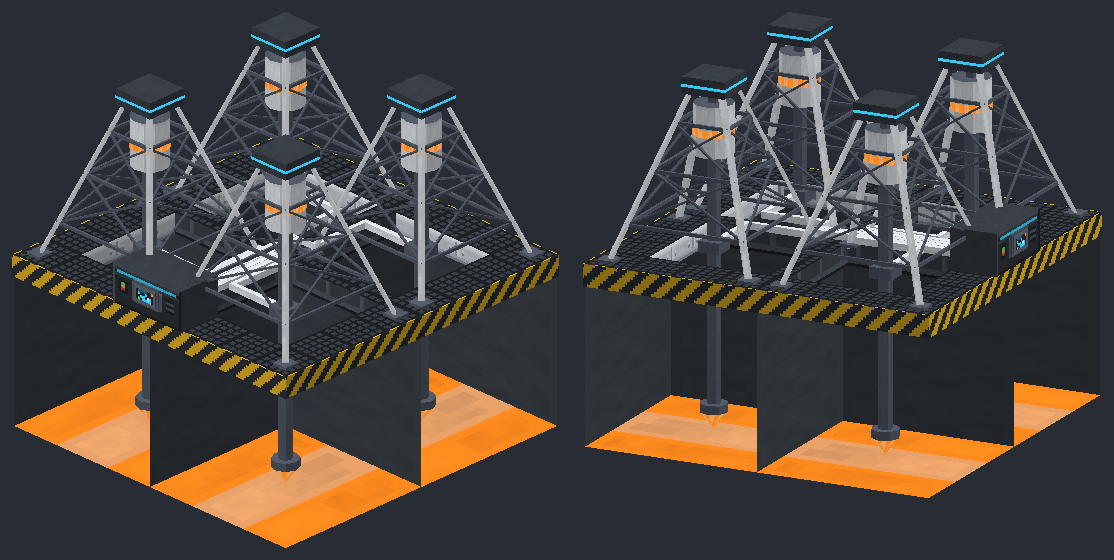
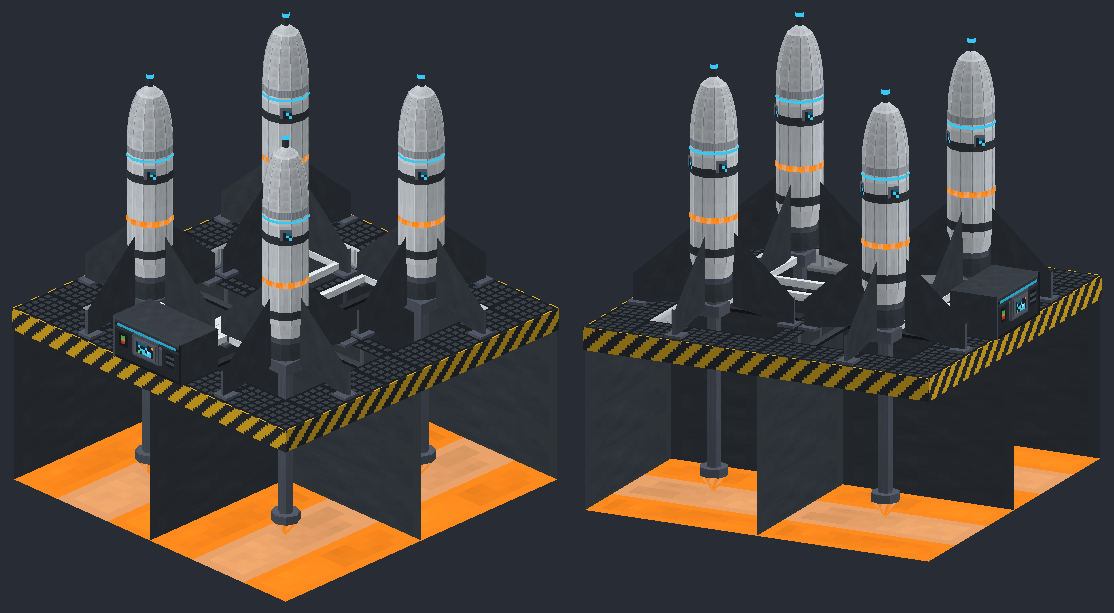
Melt Drill concept: the miners as rockets standing on their fins, nozzles down into the shafts

diff --git a/art/tools/melt_drill_concept.py b/art/tools/melt_drill_concept.py
@@ -8,10 +8,10 @@ and mounted on the deck, so a rig mines faster as miners are added (upgrade, don
 11). Up to 4 miners per quarter.
 - The deck: a slab-high girder frame round the quarter's edge with hazard stripes on its outer face
   (melting rock is dangerous), grating on top, and two cross girders between the cells.
-- A miner: a white four-legged derrick standing over its cell, its legs on the deck, braced on each
-  face, with a graphite crown and a light strip on top. Hanging in it, the heat unit (the drill's
-  melt furnace) with a glowing amber band, and from it the drill string straight down into the
-  shaft, to the melt head glowing at the bottom.
+- A miner: a rocket standing on four fins over its cell, nose up, its nozzle pointing down into the
+  shaft: the melt head is its exhaust, burning its way into the ground. White welded plates with
+  graphite bands, an orange stripe, a cyan light ring and portholes, an ogive nose with a beacon,
+  and the drill string from the nozzle down to the head glowing at the bottom.
 - Below the deck, cut away: each miner's 4 x 4 shaft with its walls glazed in fused rock, and the
   molten pool at the bottom.
 - The rig's controller on the front of the deck, the station's front panel and screen, so all
@@ -82,48 +82,70 @@ def shaft(cx, cz):
 
 
 # ---------------------------------------------------------------- a miner
+def fin(cx, cz, ax, az):
+    """A fin along the direction (ax, az): a flat graphite plate from the body out to the deck,
+    swept back at its leading edge, a pixel thick, drawn both sides with an edge cap."""
+    inner, outer = BODY_R - 0.5, CELL / 2 - 2
+    profile = [(inner, FIN_TOP), (outer, DECK + 10), (outer, DECK), (inner, DECK + 4)]
+    across = (-az, 0, ax)
+    for side in (-0.6, 0.6):
+        pts = [(cx + ax * r + across[0] * side, y, cz + az * r + across[2] * side) for r, y in profile]
+        d.quad('breeder_graphite', pts, [(0, 0), (16, 0), (16, 16), (0, 16)], (across[0] * side, 0, across[2] * side))
+    # The fin's outer edge, where it stands on the deck.
+    p0 = [(cx + ax * outer + across[0] * s, y, cz + az * outer + across[2] * s) for s, y in ((-0.6, DECK + 10), (0.6, DECK + 10), (0.6, DECK), (-0.6, DECK))]
+    d.quad('breeder_fitting', p0, [(0, 0), (1, 0), (1, 10), (0, 10)], (ax, 0, az))
+    # A foot plate under it.
+    fx, fz = cx + ax * (outer - 2), cz + az * (outer - 2)
+    d.box('breeder_fitting', fx - 3, DECK, fz - 3, fx + 3, DECK + 1, fz + 3, skip=('down',))
+
+
+BODY_R = 8             # the rocket's body
+NOZZLE_Y = DECK + 6    # the nozzle's mouth, just above the deck
+BODY_Y = (DECK + 14, 70)   # the body's straight part
+FIN_TOP = DECK + 30
+
+
 def miner(cx, cz):
-    """A derrick over its cell: four legs from the deck's corners leaning in to the crown, braced
-    on each face; the heat unit hanging inside; the drill string down to the melt head."""
-    foot, head = CELL / 2 - 6, 6
-    corners = [(-1, -1), (1, -1), (1, 1), (-1, 1)]
-
-    def leg_at(sx, sz, y):
-        t = (y - DECK) / (TOP - DECK)
-        r = foot + (head - foot) * t
-        return (cx + sx * r, y, cz + sz * r)
-
-    for sx, sz in corners:
-        path = [leg_at(sx, sz, y) for y in (DECK, DECK + 16, DECK + 32, TOP)]
-        d.sweep('breeder_leg', path, 1.2, 1.2, lambda i: (0, 1, 0), closed=False, caps=True)
-        # A foot plate on the deck.
-        fx, _, fz = leg_at(sx, sz, DECK)
-        d.box('breeder_fitting', fx - 3, DECK, fz - 3, fx + 3, DECK + 1, fz + 3, skip=('down',))
-    # Girts round the derrick, and X bracing on each face between them.
-    levels = (DECK + 12, DECK + 30, DECK + 46)
-    for y in levels:
-        ring = [leg_at(sx, sz, y) for sx, sz in corners]
-        d.sweep('breeder_fitting', ring, 0.6, 0.6, lambda i: (0, 1, 0), closed=True)
-    for (ya, yb) in zip(levels, levels[1:]):
-        for k in range(4):
-            a, b = corners[k], corners[(k + 1) % 4]
-            for p, q in ((leg_at(*a, ya), leg_at(*b, yb)), (leg_at(*a, yb), leg_at(*b, ya))):
-                d.sweep('breeder_fitting', [p, q], 0.4, 0.4, lambda i: (0, 1, 0), closed=False, caps=True)
-    # The crown: a graphite block with a light strip round it.
-    d.box('breeder_graphite', cx - 8, TOP, cz - 8, cx + 8, TOP + 6, cz + 8, skip=('down',))
-    d.box('glow', cx - 8.2, TOP + 2.5, cz - 8.2, cx + 8.2, TOP + 3.5, cz + 8.2, skip=('up', 'down'))
-    # The heat unit: a white drum with a glowing amber band, hung from the crown.
-    d.cylinder('breeder_steel_pipe', TOP - 22, TOP - 4, 7, n=12)
-    d.annulus('breeder_fitting', TOP - 4, 0, 7, n=12)
-    d.annulus('breeder_fitting', TOP - 22, 0, 7, up=False, n=12)
-    d.cylinder('breeder_amber', TOP - 15, TOP - 12, 7.2, n=12)
-    d.cylinder('breeder_fitting', TOP - 4, TOP, 2, n=8)
-    # The drill string, down through the deck into the shaft, and the melt head at the bottom.
-    with_centre(cx, cz, lambda: (
-        d.cylinder('breeder_fitting', -DEPTH + 8, TOP - 22, STRING, n=8),
-        d.lathe('breeder_amber', [(-DEPTH + 2, 0), (-DEPTH + 8, 5)], n=8),
-        d.cylinder('breeder_fitting', -DEPTH + 8, -DEPTH + 11, 5, n=8),
-        d.annulus('breeder_fitting', -DEPTH + 11, STRING, 5, n=8)))
+    """A miner as a rocket standing on its fins over its cell, nose up, its nozzle pointing down
+    into the shaft: the melt head is its exhaust, burning its way into the ground. A white body in
+    welded plates with graphite bands and an orange stripe, a cyan light ring and portholes near
+    the top, an ogive nose with a beacon, four graphite fins standing on the deck, and the drill
+    string from the nozzle down to the glowing head."""
+    # The nozzle: a graphite bell flaring down to its mouth, glowing amber inside.
+    d.lathe('breeder_graphite', [(NOZZLE_Y, 6.5), (NOZZLE_Y + 4, 5), (BODY_Y[0] - 2, 4)], n=12)
+    d.lathe('breeder_amber', [(BODY_Y[0] - 2, 3.5), (NOZZLE_Y + 2, 5.6)], n=12, inward=True)
+    d.cylinder('breeder_fitting', BODY_Y[0] - 2, BODY_Y[0], 6, n=12)
+    # The body: a boat tail into the straight part, then the nose.
+    d.lathe('breeder_steel_pipe', [(BODY_Y[0], 6), (BODY_Y[0] + 6, BODY_R)], n=12)
+    d.cylinder('breeder_shell', BODY_Y[0] + 6, BODY_Y[1], BODY_R, n=12)
+    for y in (BODY_Y[0] + 8, BODY_Y[1] - 12):
+        d.cylinder('breeder_graphite', y, y + 3, BODY_R + 0.2, n=12)
+    d.cylinder('breeder_amber', BODY_Y[0] + 20, BODY_Y[0] + 22, BODY_R + 0.2, n=12)
+    d.cylinder('glow', BODY_Y[1] - 4, BODY_Y[1] - 3, BODY_R + 0.25, n=12)
+    nose = [(BODY_Y[1], BODY_R)]
+    for k in range(1, 7):
+        t = k / 6
+        nose.append((BODY_Y[1] + 22 * t, BODY_R * math.sqrt(max(0.0, 1 - t * t))))
+    d.lathe('breeder_shell', nose, n=12)
+    d.cylinder('breeder_graphite', BODY_Y[1] + 21, BODY_Y[1] + 24, 1.2, n=6)
+    d.cylinder('glow', BODY_Y[1] + 24, BODY_Y[1] + 25.5, 1.4, n=6)
+    # Portholes round the upper body: small dark plates with a cyan rim.
+    for k in range(4):
+        phi = math.radians(45 + 90 * k)
+        px, _, pz = d.at(phi, BODY_R + 0.3, 0)
+        nx, nz = math.cos(phi), math.sin(phi)
+        across = (-nz, nx)
+        y0, y1, w = BODY_Y[1] - 10, BODY_Y[1] - 6, 2
+        pts = [(px + across[0] * w, y1, pz + across[1] * w), (px - across[0] * w, y1, pz - across[1] * w),
+               (px - across[0] * w, y0, pz - across[1] * w), (px + across[0] * w, y0, pz + across[1] * w)]
+        d.quad('screen', pts, [(0, 0), (4, 0), (4, 4), (0, 4)], (nx, 0, nz))
+    for ax, az in ((1, 0), (-1, 0), (0, 1), (0, -1)):
+        fin(cx, cz, ax, az)
+    # The drill string, down from the nozzle into the shaft, and the melt head at the bottom.
+    d.cylinder('breeder_fitting', -DEPTH + 8, NOZZLE_Y, STRING, n=8)
+    d.lathe('breeder_amber', [(-DEPTH + 2, 0), (-DEPTH + 8, 5)], n=8)
+    d.cylinder('breeder_fitting', -DEPTH + 8, -DEPTH + 11, 5, n=8)
+    d.annulus('breeder_fitting', -DEPTH + 11, STRING, 5, n=8)
 
 
 def with_centre(x, z, draw):

diff --git a/docs/DESIGN.md b/docs/DESIGN.md
@@ -585,7 +585,7 @@ A deuterium-tritium tokamak, built and fuelled from section 10. Draft, 25 Sep 20
 ## 11c. The Melt Drill (tiers 2 to 3; settled 3 Oct 2026, first numbers)
 The mod's own miner: not a box quarry but a drill that melts its way straight down. Real basis: the rock-melting drills Los Alamos built and tested in the 1970s, which melted their own holes, pushed the melt up a central stem and left the hole lined with glass where the molten rock cooled against the sides. Oil rigs work the same way above ground: a derrick, a drill string down the hole, everything brought up to the surface. (Working name "Melt Drill"; the real project's name is never used.)
 - **The rig is as big as what it mines** (3 Oct 2026): a deck that outlines a chunk quarter (8 x 8) on the surface, slab high, divided by cross girders into four 4 x 4 cells, with a controller on its front (the station's front panel and screen) that holds the inventory, the power and the upgrades. It works the quarter of the chunk it stands in, from the layer below it down to bedrock, so it never reaches outside its own chunk: whenever the rig is loaded, so is its whole shaft, and it needs no chunk loading.
-- **Miners are crafted on their own and mounted on the deck**, up to 4 per quarter, one per cell, each melting its own 4 x 4 column: a white derrick over the cell with the heat unit hanging in it (a drum with a glowing amber band) and the drill string down to the melt head. A rig mines faster as miners are added (rule 11: upgrade, don't replace), so a first rig can start with one. Concept: `art/tools/melt_drill_concept.py`.
+- **Miners are crafted on their own and mounted on the deck**, up to 4 per quarter, one per cell, each melting its own 4 x 4 column: a rocket standing on four fins over the cell, nose up, its nozzle pointing down into the shaft (the melt head is its exhaust, burning its way into the ground), with the drill string down to the head. A rig mines faster as miners are added (rule 11: upgrade, don't replace), so a first rig can start with one. Concept: `art/tools/melt_drill_concept.py`.
 - **The drill string:** as each melt head goes down it leaves a pipe behind it up the shaft, which carries what it melts up to its miner, and from there along the deck to the controller. Pull it all out of the controller with an item pipe.
 - **Glazed walls:** the outer ring of the 8 x 8 is melted too (its ores collected) and left as fused rock, a glassy block, as the real holes were lined with glass; the inside is cleared. That seals the shaft against water and lava, keeps everything inside the chunk, and leaves a neat glass-walled pit.
 - **Filter:** by default only ores, gems and raw materials come up; stone, dirt and the like are melted away. A filter slot holds a keep list, so players who want cobble or deepslate can add them.
